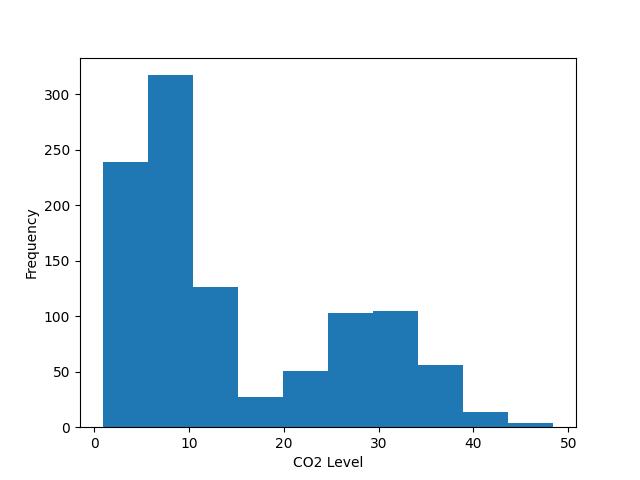
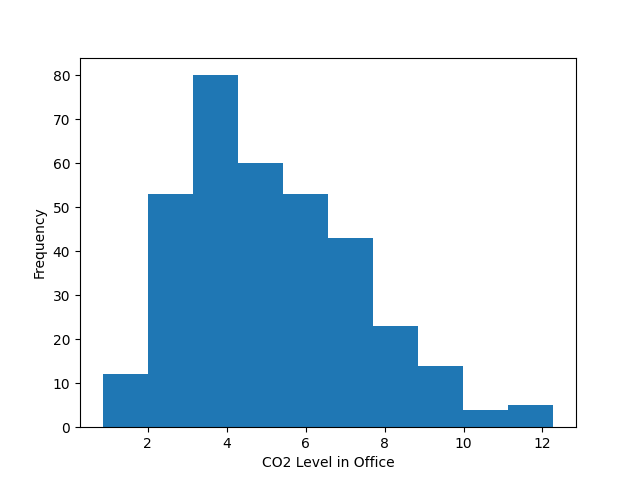
Adjusted work for task 2/3 because of change in questions

diff --git a/analysis.py b/analysis.py
@@ -29,32 +29,33 @@ def main():
 				prevTime = time;
 				time = datetime.fromisoformat(r[room]["time"])
 				timeInterval.append((time-prevTime).total_seconds())
-			temperature.append(r[room]["temperature"][0])
-			occupancy.append(r[room]["occupancy"][0])
-			co.append(r[room]["co2"][0])
+			if room == "office":
+				temperature.append(r[room]["temperature"][0])
+				occupancy.append(r[room]["occupancy"][0])
+				co.append(r[room]["co2"][0])
 		f.close()
 			
 
 	# Using Pandas series to find median, variance, and probabiltiy distribution for each set of data
 	tempData = pd.Series(temperature)
-	print("Temperature Median: ", tempData.median())
-	print("Temperature Variance: ", tempData.var())
+	print("Temperature Median for Office: ", tempData.median())
+	print("Temperature Variance for Office: ", tempData.var())
 	ax = tempData.plot.kde()
-	plt.xlabel("Temperature (in Celsius)")
+	plt.xlabel("Temperature in Office (in Celsius)")
 	plt.savefig("images/temp.png")
 	plt.clf()
 
 	occupData = pd.Series(occupancy)
-	print("Occupancy Median: ", occupData.median())
-	print("Occupancy Variance: ", occupData.var())
+	print("Occupancy Median for Office: ", occupData.median())
+	print("Occupancy Variance for Office: ", occupData.var())
 	ax = occupData.plot.kde()
-	plt.xlabel("Occupancy")
+	plt.xlabel("Occupancy in Office")
 	plt.savefig("images/occupancy.png")
 	plt.clf()
 	
 	coData = pd.Series(co)
 	ax = coData.plot.kde()
-	plt.xlabel("CO2 Level")
+	plt.xlabel("CO2 Level in Office")
 	plt.savefig("images/co2.png")
 	plt.clf()
 
@@ -68,18 +69,33 @@ def main():
 	# Detecting temperature anomalies and printing anomalies to file
 	o = open("anomalies.txt", "w")
 	print("\nTemperature anomalies: ")
+	count = 0;
+	goodTempData = []
 	with open('data.txt', "r") as f:
 		for line in f:
 			r = json.loads(line)
 			room = list(r.keys())[0]
-			if (
-				r[room]["temperature"][0] > tempData.median() + 2** tempData.std()
-				or r[room]["temperature"][0] < tempData.median() - 2**tempData.std()
-			):
-				print("%s in %s at %s" %(r[room]["temperature"][0], room, r[room]["time"]))
-				o.write("%s in %s at %s\n" %(r[room]["temperature"][0], room, r[room]["time"]))
+			if room == "office": 
+				if (
+					r[room]["temperature"][0] > tempData.median() + 2** tempData.std()
+					or r[room]["temperature"][0] < tempData.median() - 2**tempData.std()
+				):
+					print("%s in %s at %s" %(r[room]["temperature"][0], room, r[room]["time"]))
+					o.write("%s in %s at %s\n" %(r[room]["temperature"][0], room, r[room]["time"]))
+					count+=1
+				else:
+					goodTempData.append(r[room]["temperature"][0])
 		f.close()
 		o.close()
+
+	# Calculate percentage of bad points
+	print("\nPercentage of 'bad' points: ", float(count/tempData.size))
+		
+	# Calculate median and variance of data without bad points
+	print("\nTemperature with bad points removed: ")
+	newData=pd.Series(goodTempData)
+	print("Median: ",newData.median())
+	print("Variance: ",newData.var())
 
 if __name__ == "__main__":
 	main()

diff --git a/Report.md b/Report.md
@@ -9,12 +9,13 @@ What is the greeting string issued by the server to the client upon first connec
 Task 2:
 
 What are the median and variance observed from the temperature data? 
- - Median: 23.005916771008064
- - Variance: 13.431942756792905
+In the office:
+ - Median: 23.018693542662476
+ - Variance: 9.790063333923133
 
 What are the median and variance observed from the occupancy data?
- - Median: 5.0
- - Variance: 63.6028364871368
+ - Median: 2.0
+ - Variance: 2.2173377088504274
 
 Plot the probability distribution function for each sensor type.
 NEED TO ADD (images are in images folder)
@@ -32,7 +33,15 @@ TO DO
 
 Task 3:
 We implemented an algorithm that checks if a temperature data point is further than 2 standard deviations away from the mean. The anomalies detected in our data set using this algorithm can be found in anomalies.txt.
+
 See anomalies.txt for list of detected anomalies.
+
+The percentage of all points that are bad points is 0.01729106628242075
+
+The new median and variance with the bad points removed are:
+- Median: 23.019330104257943
+- Variance: 1.0823557009382205
+
 Does a persistent change in temperature	always indicate a failed sensor?
 What are possible bounds on temperature for each room type?
 
